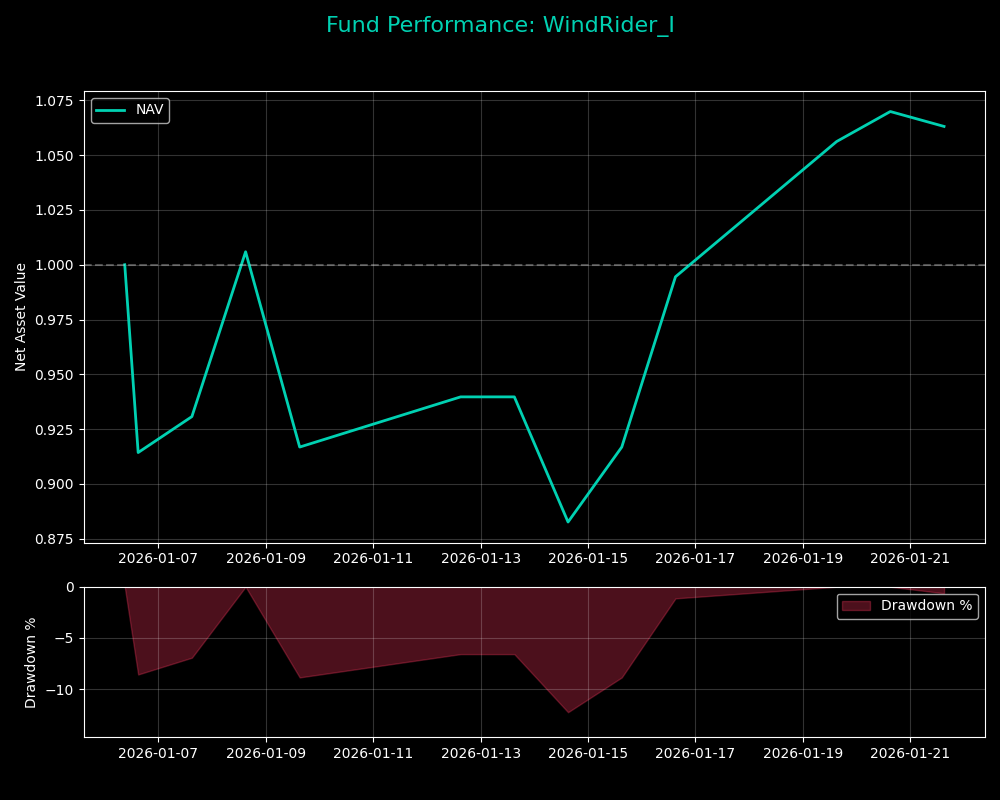
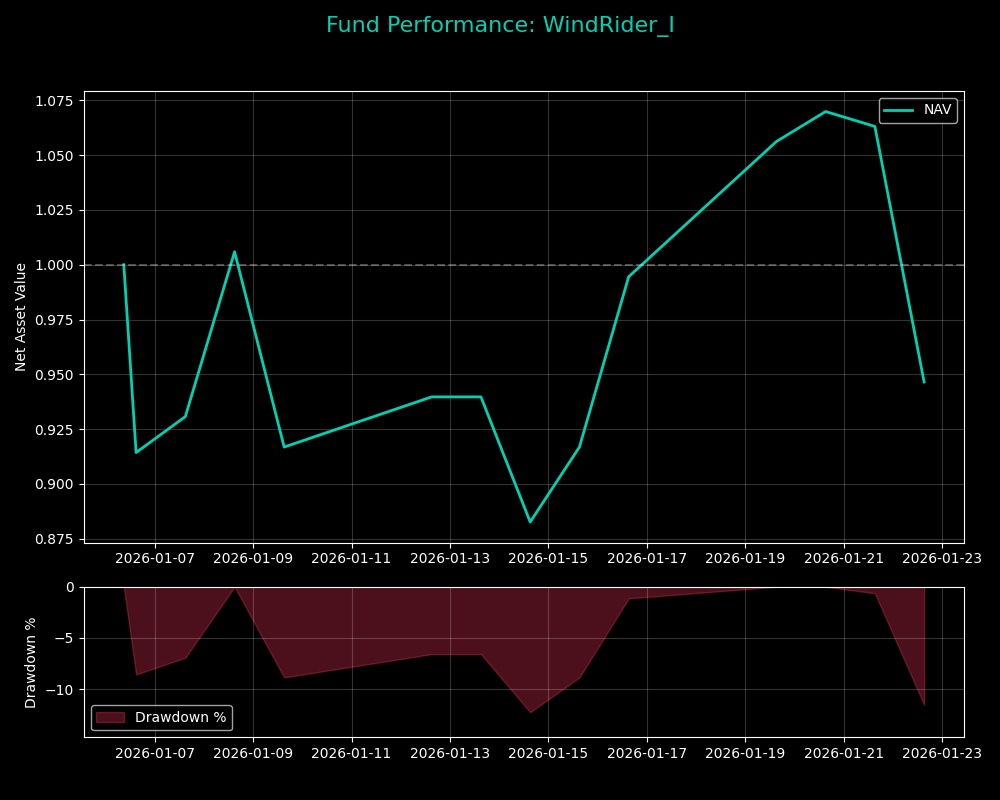
Updated Hugo site content

diff --git a/content/investment/windrider-1.md b/content/investment/windrider-1.md
@@ -1,8 +1,8 @@
 +++
 title = "风舵1号 (WindRider I)  /// 指数"
 summary = "商品期货分形摆动策略，实盘最新净值与核心风险指标。"
-date = 2026-01-21T16:38:38+08:00
-lastmod = 2026-01-21T16:38:38+08:00
+date = 2026-01-22T15:15:04+08:00
+lastmod = 2026-01-22T15:15:04+08:00
 draft = false
 description = "商品期货分形摆动策略实盘"
 +++
@@ -15,24 +15,24 @@ description = "商品期货分形摆动策略实盘"
 
 ### 风舵1号 (WindRider I) &nbsp;&nbsp;<span style="color: #E63946; font-weight: bold;">/</span><span style="color: #F1A73E; font-weight: bold;">/</span><span style="color: #000091; font-weight: bold;">/</span>&nbsp;&nbsp; 指数
 商品期货分形摆动策略实盘<br>
-净值简报 <small>(截至: 2026-01-21)</small>
+净值简报 <small>(截至: 2026-01-22)</small>
 
 |  |  |
 | :--- | :--- |
 | **指数代码：** | WDR1.CTA |
 | **起步日期：** | 2026-01-06 |
-| **最新净值：** | 1.0631 |
-| **今日涨跌：** | -0.64% |
+| **最新净值：** | 0.9465 |
+| **今日涨跌：** | -10.97% |
 
 ===========================
 
 | 核心指标 | |
 | :--- | :--- |
-| **累计涨跌：** | +6.31% |
-| **年化收益：** | +343.24% |
+| **累计涨跌：** | -5.35% |
+| **年化收益：** | -71.47% |
 | **最大回撤：** | -12.26% |
-| **卡玛比率：** | 28.00 |
-| **策略状态：** | 已运行 16 天 |
+| **卡玛比率：** | -5.83 |
+| **策略状态：** | 已运行 17 天 |
 
 ### 净值曲线图
 ![风舵1号净值曲线](/images/investment/windrider_nav.png)
